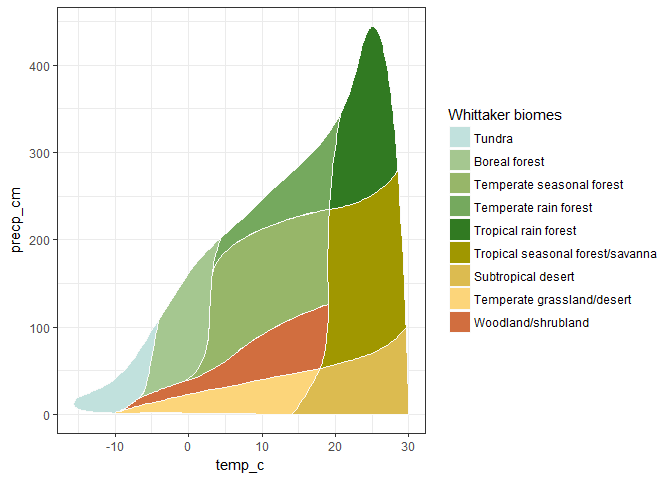
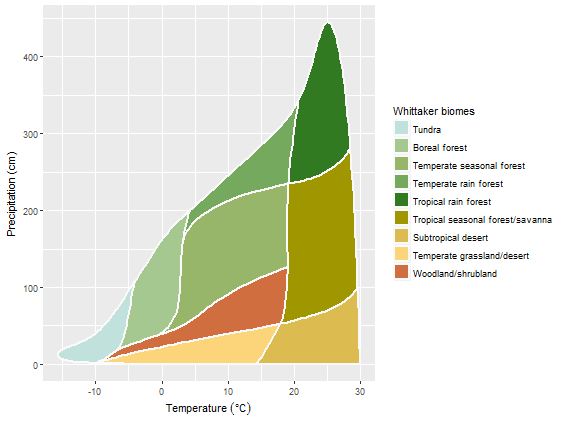
simplify example & add Travis status img

diff --git a/README.md b/README.md
@@ -1,5 +1,9 @@
 # plotbiomes
 
+[![Build Status](https://travis-ci.org/valentinitnelav/plotbiomes.svg?branch=develop)](https://travis-ci.org/valentinitnelav/plotbiomes)
+
+## Overview
+
 R package for plotting [Whittaker' biomes](https://en.wikipedia.org/wiki/Biome#Whittaker_.281962.2C_1970.2C_1975.29_biome-types) with [ggplot2](https://github.com/tidyverse/ggplot2).
 
 The original graph is Figure 5.5 in *Ricklefs, R. E. (2008), The economy of nature. W. H. Freeman and Company.* (Chapter 5, Biological Communities, The biome concept). The figure was processed and brought into an R friendly format. Details are given in [Whittaker_biomes_dataset.html](https://rawgit.com/valentinitnelav/plotbiomes/master/html/Whittaker_biomes_dataset.html) document.
@@ -23,28 +27,13 @@ Simple example of plotting Whittaker' biomes:
 
 ``` r
 library(plotbiomes)
-library(ggplot2)
-# Plot Whittaker' biomes with ggplot()
-ggplot() +
- geom_polygon(data = Whittaker_biomes,
-              aes(x      = temp_c,
-                  y      = precp_cm,
-                  fill   = biome),
-              colour = "gray98", # colour of polygon border
-              size   = 0.5) +    # thickness of polygon border
- # fill polygons with predefined colors (as in Ricklefs, 2008)
- scale_fill_manual(name   = "Whittaker biomes",
-                   breaks = names(Ricklefs_colors),
-                   labels = names(Ricklefs_colors),
-                   values = Ricklefs_colors) +
- theme_bw()
- 
- 
- # Running the following produces the same output as above, but is less verbose
- 
- whittaker_base_plot() +
-  theme_bw()
- 
+
+whittaker_base_plot()
 ```
+
+<!--
+library(ggplot2)
+ggsave(filename = "man/figures/README-example-1.png", dpi = 75)
+-->
 
 ![](man/figures/README-example-1.png)
